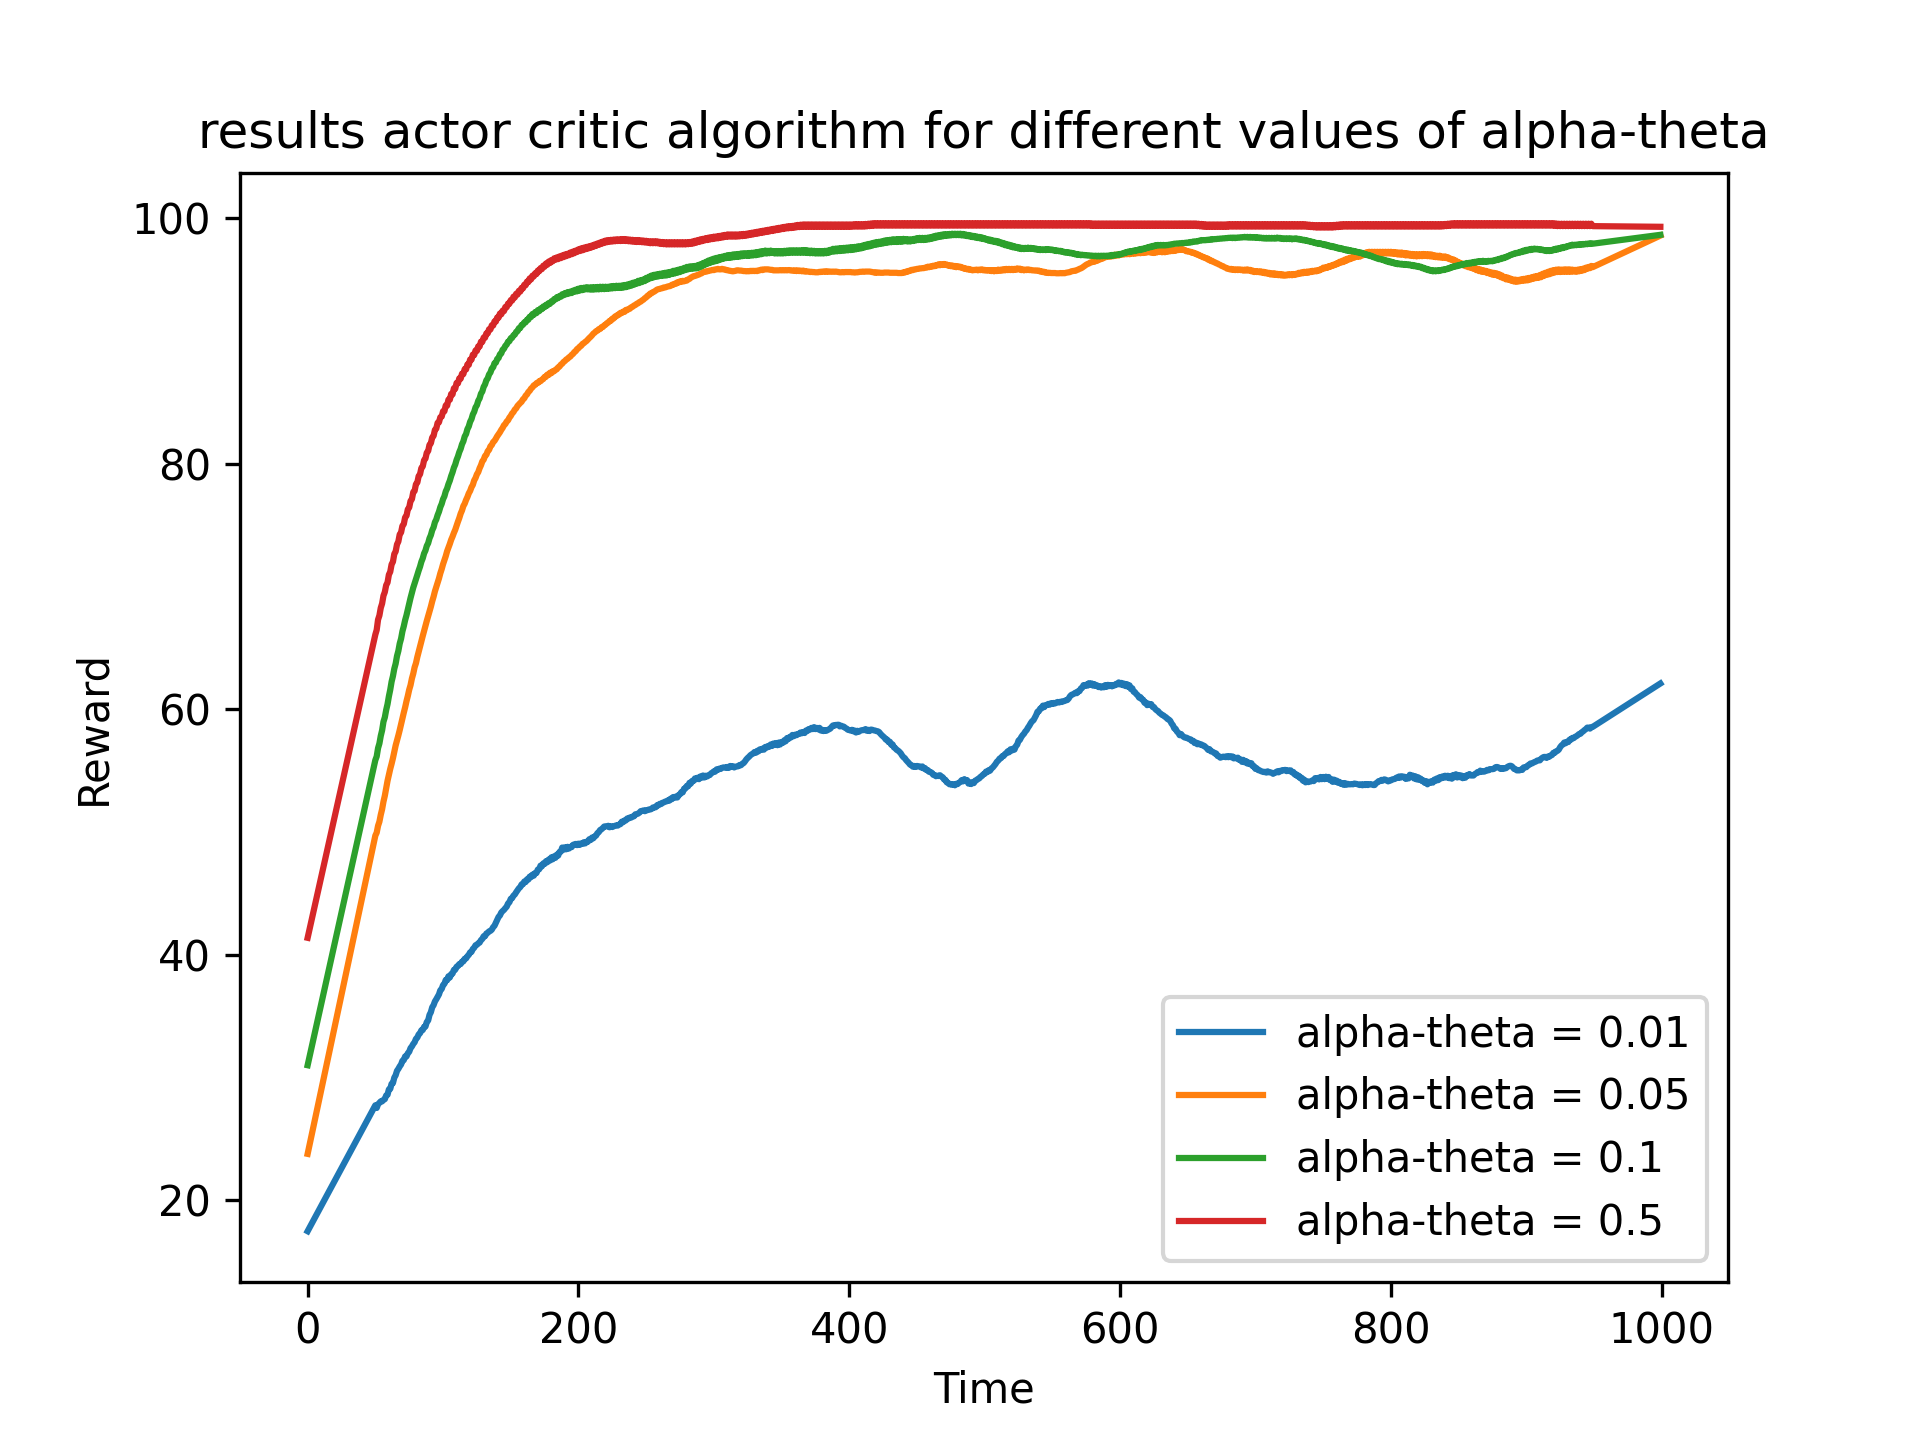
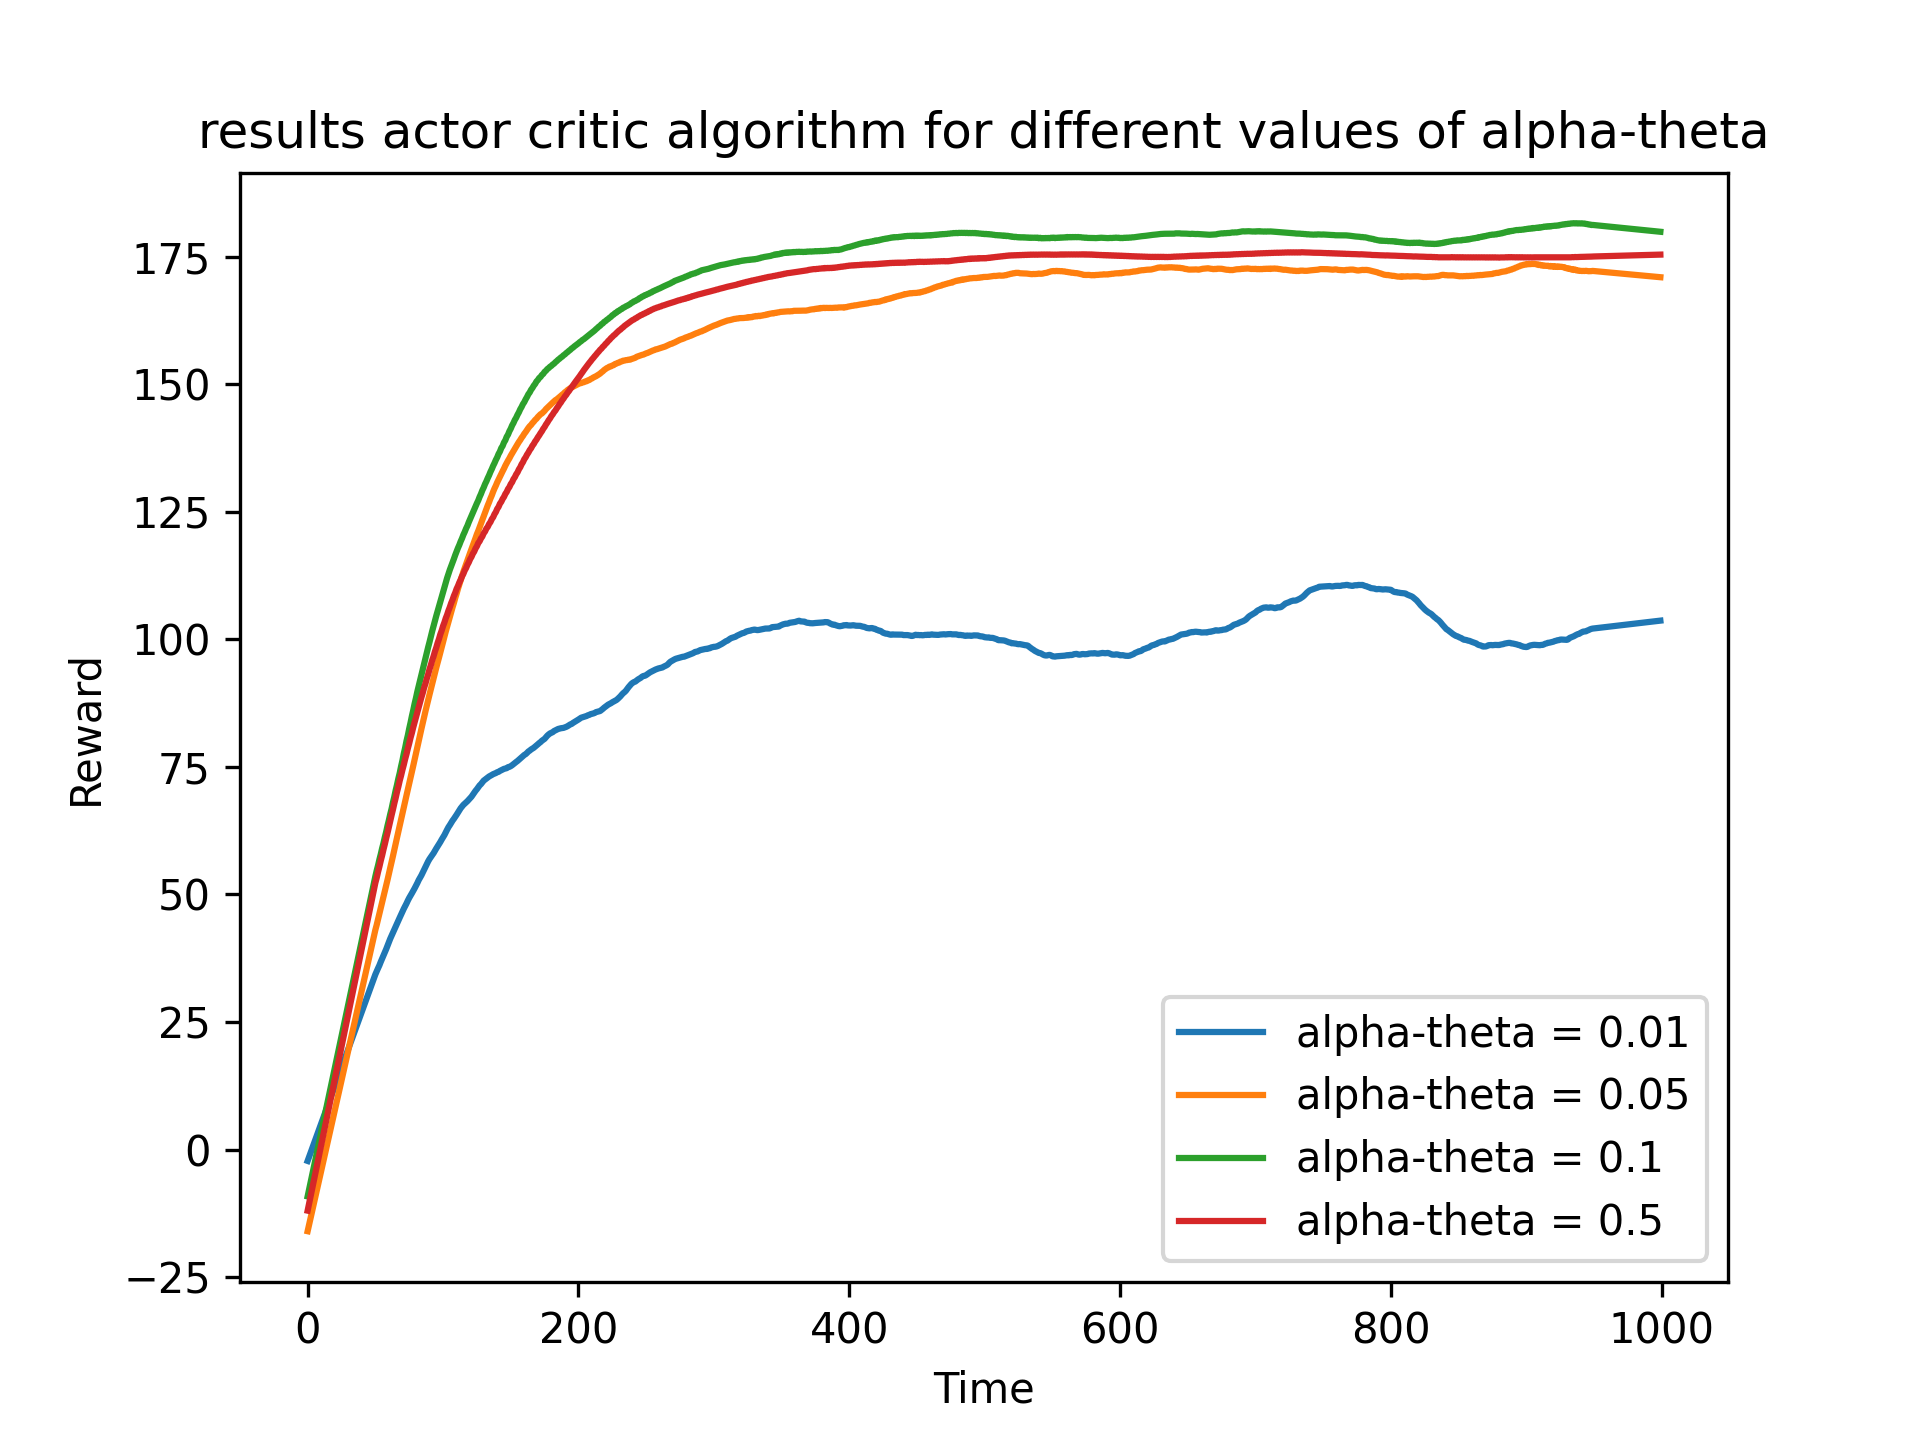
vernieuwde plots + enkele aanpassingen in code

diff --git a/PBRL_Environment.py b/PBRL_Environment.py
@@ -8,39 +8,14 @@ import pandas as pd
 class GridWorld_2D():
 
     def __init__(self):
-        #Get-GridWorld-From-File------------
-        with open("gridworld.txt") as file:
-            x = file.readlines()
-        i = 0
-        self.goal = 15
-        self.walls = []
-        self.start_location = 0
-        for row in x:
-            for char in row.strip():
-                if char == "x":
-                    self.walls.append(i)
-                if char == "G":
-                    self.goal = i
-                if char == "S":
-                    self.start_location = i
-                i += 1
-        #------------------------------------
-        self.width = len(row)
-        self.height = len(x)
+        self.width = 5
+        self.height = 5
         self.shape = (self.height, self.width)
-        self.location = self.start_location
         self.n_states = self.height * self.width
         self.n_actions = 4
-
-    def Vectorize(self,poly,n_parameters,state,a=None):
-        x,y = np.unravel_index(state, self.shape)
-        x = x/(self.width)
-        y = y/(self.height)
-        input = [x,y]
-        if a != None:
-            input = [state/self.n_states,a/4]
-        x = poly.transform([input])[0]
-        return x[:n_parameters]
+        self.goal = 24
+        self.start_location = 0
+        self.location = self.start_location
 
     def get_actions(self):
         return [0,1,2,3]
@@ -70,8 +45,7 @@ class GridWorld_2D():
             if x<self.width-1:
                 x += 1
         new_location = self.location_to_state([x,y])
-        if new_location not in self.walls:
-            self.location = new_location
+        self.location = new_location
         if new_location == self.goal:
             return 200, self.location, True
         return -1, self.location, False
@@ -79,13 +53,15 @@ class GridWorld_2D():
 class GridWorld_3D():
 
     def __init__(self):
-        self.width = 10
-        self.height = 10
-        self.depth = 10
+        self.width = 5
+        self.height = 5
+        self.depth = 5
         self.shape = (self.height, self.width, self.depth)
         self.n_states = self.height * self.width * self.depth
-        self.goal = 99
-        self.location = 0
+        self.n_actions = 6
+        self.goal = 124
+        self.start_location = 0
+        self.location = self.start_location
 
     def state_to_location(self, state):
         return np.unravel_index(state, self.shape)
@@ -93,11 +69,12 @@ class GridWorld_3D():
     def location_to_state(self,location):
         return np.ravel_multi_index(location, self.shape)
 
-    def possible_action():
+    def get_actions():
         return [0,1,2,3,4,5] #up/down/left/right/forward/backward
 
     def reset(self):
-        self.location = 0
+        self.location = self.start_location
+        return self.location
 
     def step(self, action):
         x,y,z = self.state_to_location(self.location)
@@ -106,7 +83,7 @@ class GridWorld_3D():
                 y -= 1
         elif action == 1:
             if y <self.height-1:
-                self.y += 1
+                y += 1
         elif action == 2:
             if x>0:
                 x -= 1
@@ -114,15 +91,75 @@ class GridWorld_3D():
             if x<self.width-1:
                 x += 1
         elif action == 4:
-            if x>0:
+            if z>0:
                 z -= 1
         elif action == 5:
-            if x<self.depth-1:
+            if z<self.depth-1:
                 z += 1
-        self.location = self.location_to_state([x,y,z])
-        if self.location == self.goal:
-            return 200
-        return -1
+        new_location = self.location_to_state([x,y,z])
+        self.location = new_location
+        if new_location == self.goal:
+            return 200, self.location, True
+        return -1, self.location, False
+
+class GridWorld_4D():
+
+    def __init__(self):
+        self.width = 5
+        self.height = 5
+        self.depth = 5
+        self.D4 = 5
+        self.shape = (self.height, self.width, self.depth, self.D4)
+        self.n_states = self.height * self.width * self.depth * self.D4
+        self.n_actions = 8
+        self.goal = 624
+        self.start_location = 0
+        self.location = self.start_location
+
+    def state_to_location(self, state):
+        return np.unravel_index(state, self.shape)
+
+    def location_to_state(self,location):
+        return np.ravel_multi_index(location, self.shape)
+
+    def get_actions():
+        return [0,1,2,3,4,5,6,7] #up/down/left/right/forward/backward
+
+    def reset(self):
+        self.location = self.start_location
+        return self.location
+
+    def step(self, action):
+        x,y,z,d4 = self.state_to_location(self.location)
+        if action == 0:
+            if y>0:
+                y -= 1
+        elif action == 1:
+            if y <self.height-1:
+                y += 1
+        elif action == 2:
+            if x>0:
+                x -= 1
+        elif action == 3:
+            if x<self.width-1:
+                x += 1
+        elif action == 4:
+            if z>0:
+                z -= 1
+        elif action == 5:
+            if z<self.depth-1:
+                z += 1
+        elif action == 6:
+            if d4>0:
+                d4 -= 1
+        elif action == 7:
+            if d4<self.D4-1:
+                d4 += 1
+        new_location = self.location_to_state([x,y,z,d4])
+        self.location = new_location
+        if new_location == self.goal:
+            return 200, self.location, True
+        return -1, self.location, False
 
 if __name__ == "__main__":
     A = GridWorld_1()

diff --git a/PBRL_Experiment.py b/PBRL_Experiment.py
@@ -3,7 +3,7 @@ Contains all code for the experiments
 """
 from helper import LearningCurvePlot
 from PBRL_Agent import ActorCritic, QLearningAgent
-from PBRL_Environment import GridWorld_2D, GridWorld_3D
+from PBRL_Environment import GridWorld_2D, GridWorld_3D, GridWorld_4D
 import matplotlib.pyplot as plt
 import numpy as np
 from scipy.signal import savgol_filter
@@ -35,8 +35,7 @@ def run_ActorCritic(Env, Agent, n_timesteps, n_parameter=27):
 def run_repetitions(n_repetitions, n_timesteps, alpha_theta, alpha_w, gamma, method="AC"):
     LearningCurve = np.zeros(n_timesteps)
     for rep in range(n_repetitions):
-        print(rep)
-        Env = GridWorld_2D()
+        Env = GridWorld_4D()
         if method == "AC":
             A1 = ActorCritic(Env.n_actions, Env.n_states,n_parameters,alpha_theta, alpha_w)
             A1.gamma = gamma
@@ -52,30 +51,33 @@ def experiment(n_repetitions, n_timesteps):
     alpha_theta = 0.1
     gamma = 0.99
     for alpha_w in [0.01, 0.05, 0.1, 0.5]:
+        print("alpha_w")
         LearningCurve = run_repetitions(n_repetitions,n_timesteps, alpha_theta, alpha_w,gamma, method="AC")
         plot.add_curve(LearningCurve, label='alpha-w = {}'.format(alpha_w))
-    plot.save("AC_alpha_w_GW1")
+    plot.save("AC_alpha_w_4D")
     plot = LearningCurvePlot(title = 'results actor critic algorithm for different values of alpha-theta')
     alpha_w = 0.1
     gamma = 0.99
     for alpha_theta in [0.01, 0.05, 0.1, 0.5]:
+        print("alpha_theta")
         LearningCurve = run_repetitions(n_repetitions,n_timesteps, alpha_theta, alpha_w,gamma, method="AC")
         plot.add_curve(LearningCurve, label='alpha-theta = {}'.format(alpha_theta))
-    plot.save("AC_alpha_theta_GW1")
+    plot.save("AC_alpha_theta_4D")
     plot = LearningCurvePlot(title = 'results actor critic algorithm for different values of gamma')
     alpha_theta = 0.1
     alpha_w = 0.1
     for gamma in [0.8, 0.9, 0.99, 1.0]:
+        print("gamma")
         LearningCurve = run_repetitions(n_repetitions,n_timesteps, alpha_theta, alpha_w,gamma, method="AC")
         plot.add_curve(LearningCurve, label='gamma = {}'.format(gamma))
-    plot.save("AC_gamma_GW1")
+    plot.save("AC_gamma_4D")
     pass
 
 if __name__ == "__main__":
     #experiment parameters
     n_repetitions = 100
-    n_parameters = 200
     n_timesteps = 1000
+    n_parameters = 27
     alpha_theta = 0.1
     alpha_w = 0.05
 
